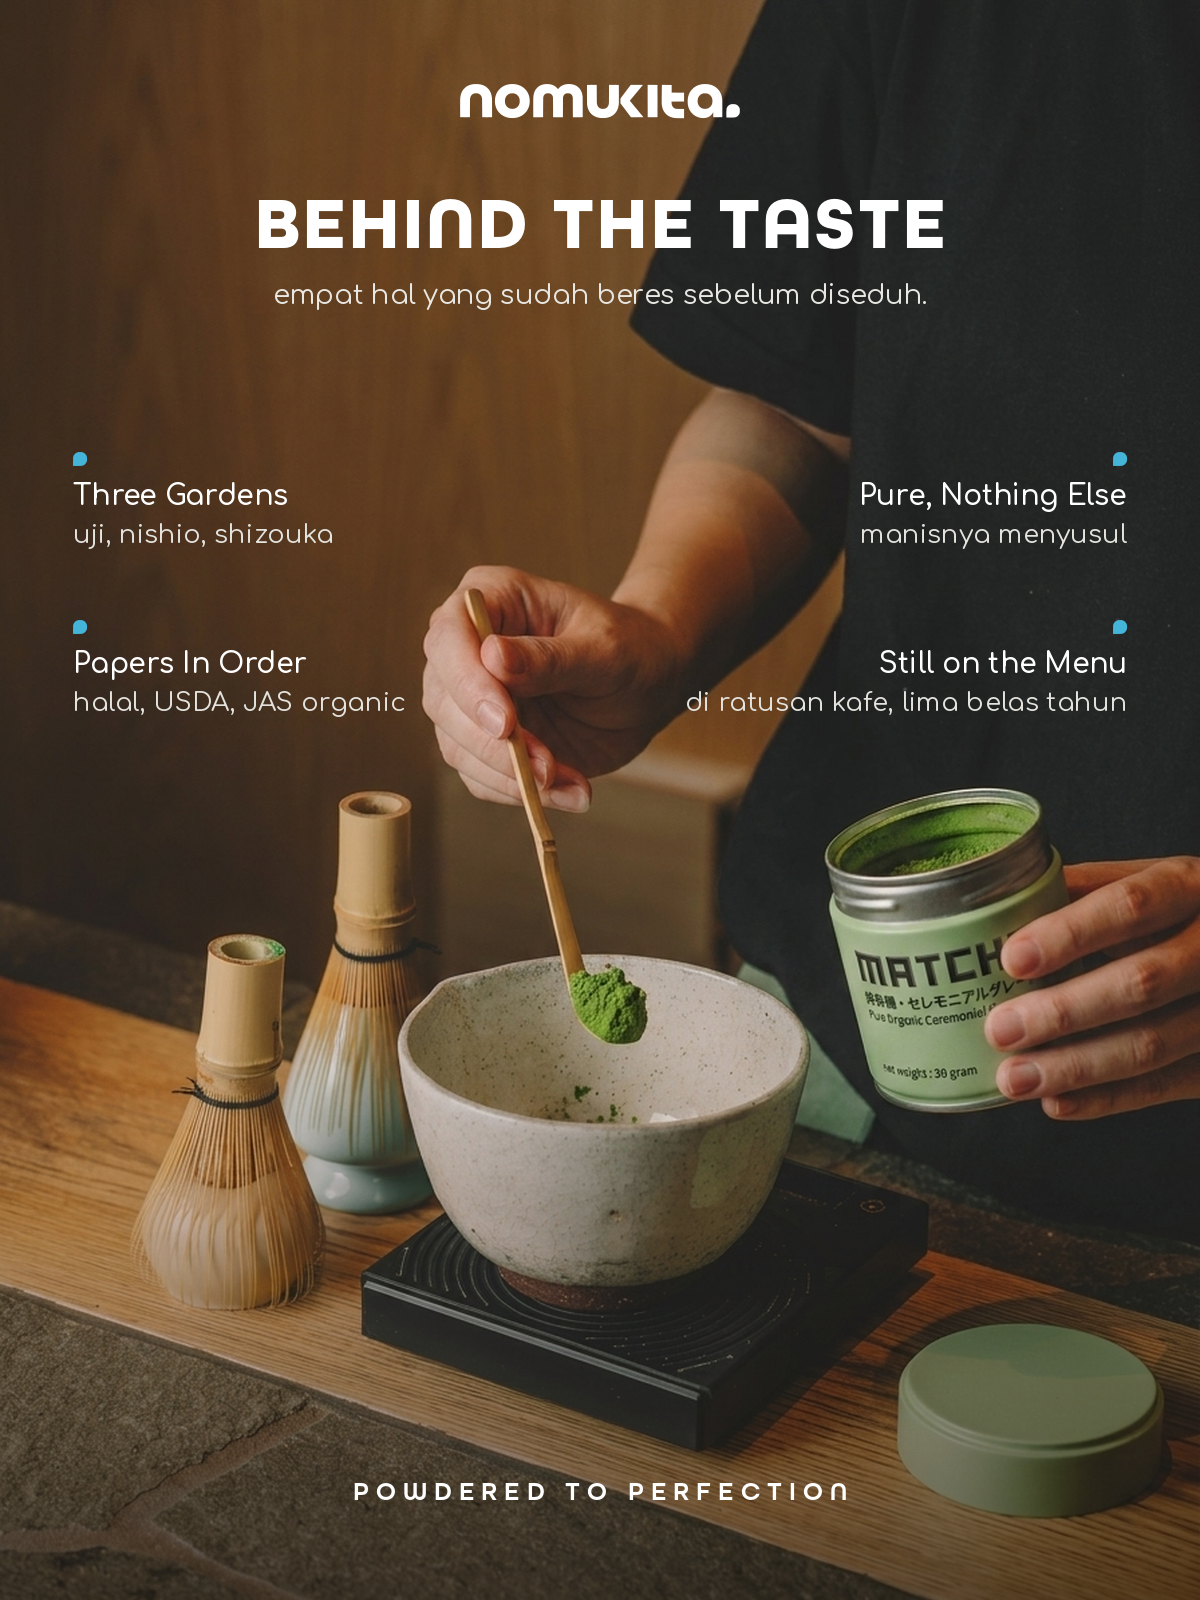
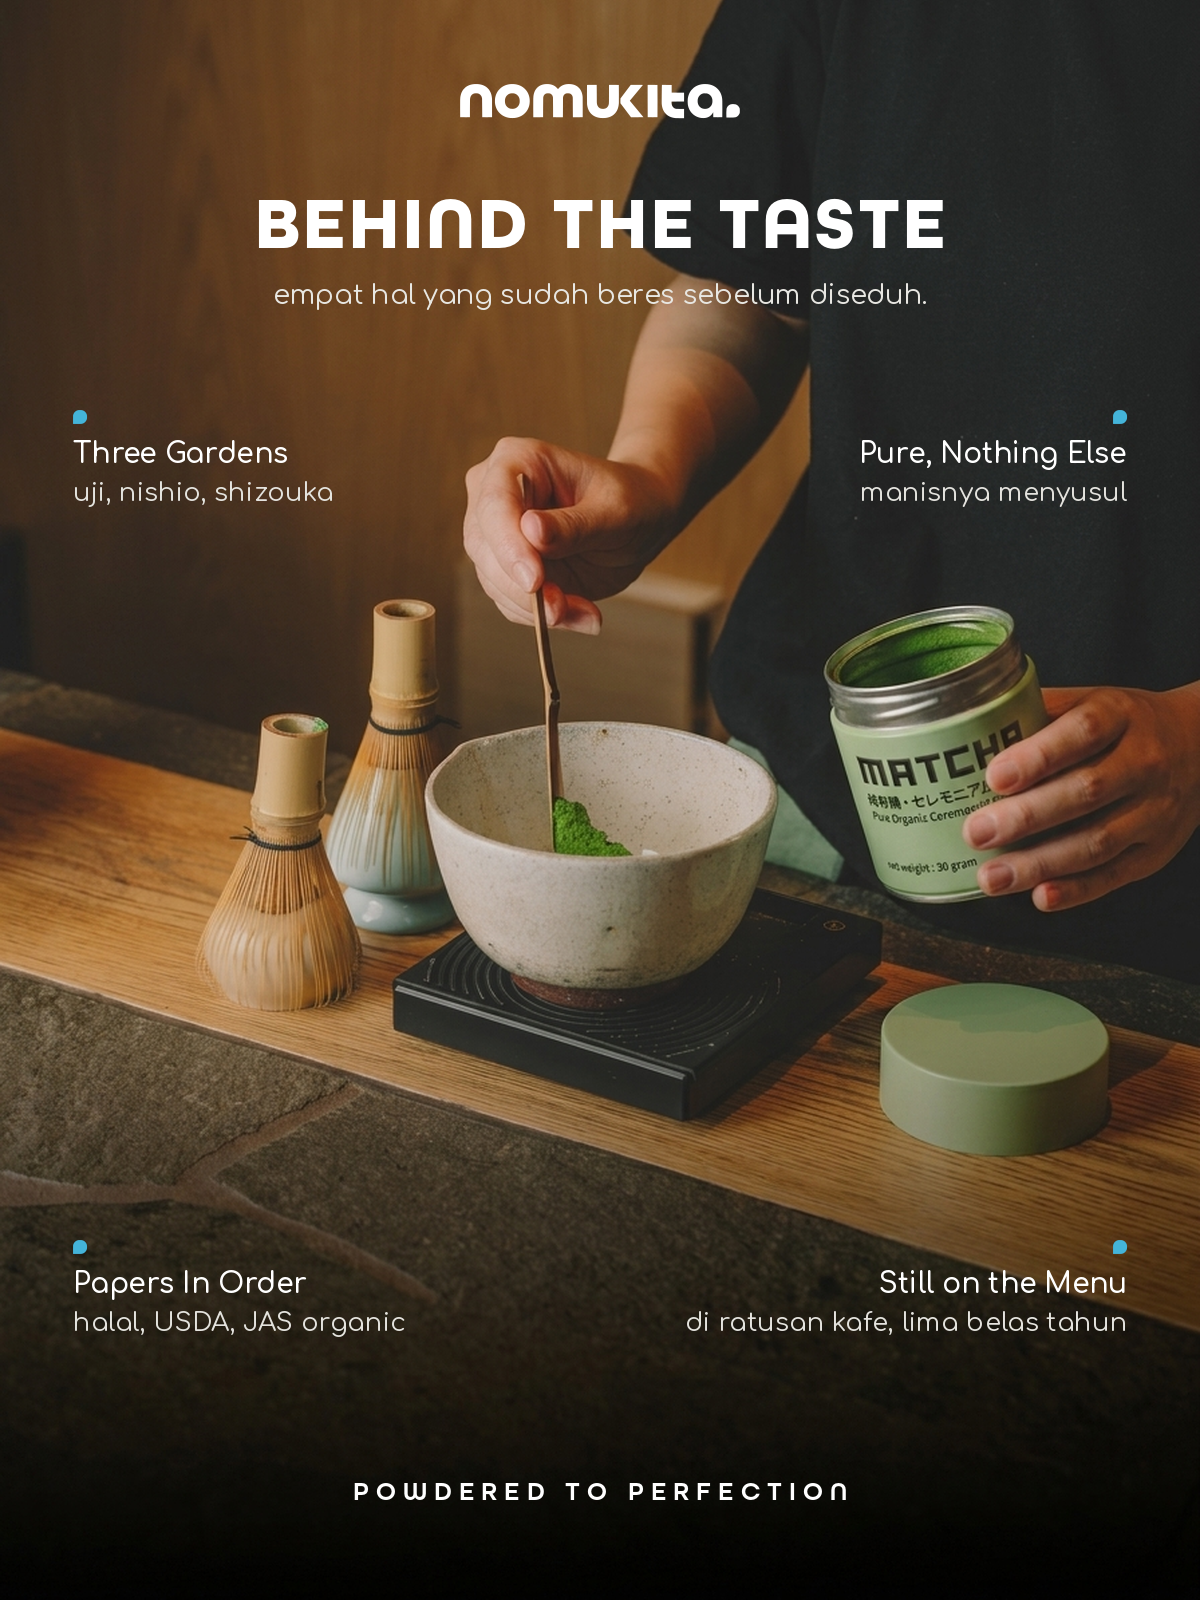
Reshoot slide two so the claims can frame the picture
The type was banked into the top third because the photograph left nowhere
else to put it: the bamboo whisks ran to 180 luminance across the lower
left and no scrim darkened them without muddying everything around them.
That was a picture problem being paid for by the layout.

So the scene was regenerated with every object held in the upper two
thirds and the counter below left bare. The lower third now falls to 23-45,
and the claims split into two bands that frame the ritual rather than
stacking above it — header, two claims, the photograph breathing for seven
hundred pixels, two claims, signature.

The scrim is gone with it; the counter is already dark enough that
flattening it further only cost contrast in the picture.

Regenerating cost 8 credits, which is what makes fixing the photograph
cheaper than fighting it.

Claude-Session: https://claude.ai/code/session_01LqXMhsXVUSTDGQKyLmseEg

diff --git a/banners/brandstory.py b/banners/brandstory.py
@@ -74,16 +74,15 @@ def _value(canvas, d, x, y, head, sub, align='left'):
 
 def proof():
     c = N.canvas()
-    scene = N.cover(Image.open(ASSETS / 'illus3/matcha-ritual.png'), W, H)
+    scene = N.cover(Image.open(ASSETS / 'illus3/matcha-ritual-2.png'), W, H)
     c.paste(scene, (0, 0))
-    _scrim(c, 1010, H, 140)
     d = ImageDraw.Draw(c)
 
-    # Every text footprint was measured on the photograph before being placed.
-    # The four claims sit in two rows, left and right of the arm, on ground that
-    # peaks at 66-91 luminance. The lower left is deliberately empty: the bamboo
-    # whisks run bright there (up to 180) and no scrim fixes that without
-    # muddying the picture. The scrim only serves the footer.
+    # The scene was reshot to hold every object in the upper two thirds, which
+    # frees the counter below. That lets the claims sit in two bands framing the
+    # photograph instead of stacking above it: the only ground that stays dark
+    # for a full block is y 390-480 and y 1180 down, and both are used. No scrim
+    # is needed now — the lower counter already falls to 23-45 luminance.
     N.logo(c, y=84, width=280, colour='#FFFFFF')
     N.text(d, (W / 2, 248), 'BEHIND THE TASTE', 74, WHITE, tracking=2,
            align='center')
@@ -91,13 +90,10 @@ def proof():
            (232, 231, 226), align='center')
 
     right = W - MARGIN
-    # Row 2 on the left has a hard ceiling near x 420 before the bamboo turns
-    # bright, so the certification list is the tight one and the long line about
-    # cafes went right, where there is room out to x 669.
-    _value(c, d, MARGIN, 452, 'Three Gardens', 'uji, nishio, shizouka')
-    _value(c, d, right, 452, 'Pure, Nothing Else', 'manisnya menyusul', align='right')
-    _value(c, d, MARGIN, 620, 'Papers In Order', 'halal, USDA, JAS organic')
-    _value(c, d, right, 620, 'Still on the Menu',
+    _value(c, d, MARGIN, 410, 'Three Gardens', 'uji, nishio, shizouka')
+    _value(c, d, right, 410, 'Pure, Nothing Else', 'manisnya menyusul', align='right')
+    _value(c, d, MARGIN, 1240, 'Papers In Order', 'halal, USDA, JAS organic')
+    _value(c, d, right, 1240, 'Still on the Menu',
            'di ratusan kafe, lima belas tahun', align='right')
 
     N.text(d, (W / 2, 1500), 'POWDERED TO PERFECTION', 26, WHITE, demi=True,
